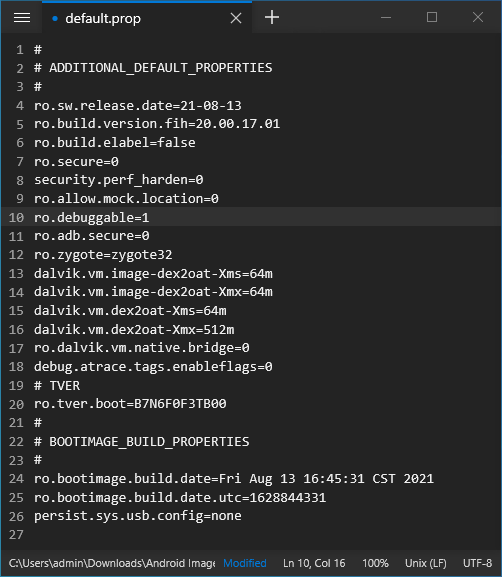
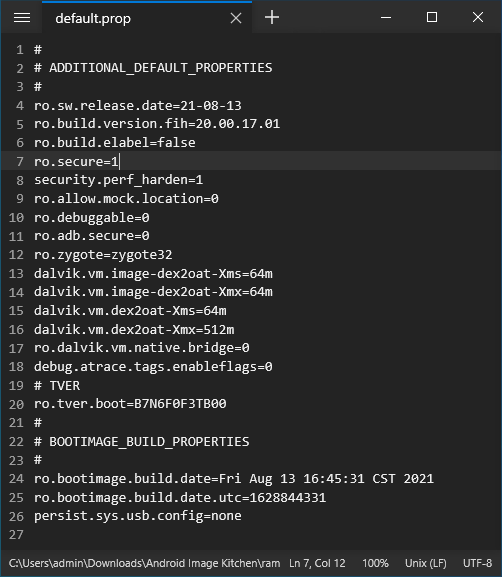
Correct the order of what are edited in ramdisk/default.prop

diff --git a/README.md b/README.md
@@ -420,6 +420,8 @@ python edl.py reset
 ### Next steps
 Now that you've rooted your phone, to install applications with 'forbidden' permissions, connect it to a WebIDE session, then open Device Preferences by the right pane, search for `devTools.apps.forbiddenPermissions`, clear its value, then either restart the phone or hold the top Power button and choose Memory Cleaner > Deep Clean Memory to restart B2G.
 
+![Demostration of a WebIDE window in which the location of Device Preferences is highlighted in the right pane and the value of devTools.apps.forbiddenPermissions has been emptied](/assets/devpref.png)
+
 If you wish to retain privileged permissions after restoring the phone to its unrooted state, before doing so, back up all data, sideload Luxferre's [CrossTweak](https://gitlab.com/suborg/crosstweak) then press # to perform a privileged factory reset — this will wipe all data of the phone and let you set up with a privileged session. This session will last until an OTA update overrides or you choose to factory reset normally yourself.
 
 ## Source code
